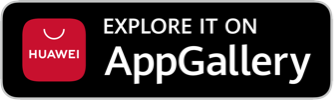
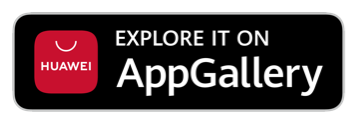
Update README v2

diff --git a/README.md b/README.md
@@ -16,8 +16,7 @@ alt="Get it on Google Play"
 height="80">](https://play.google.com/store/apps/details?id=com.kgurgul.cpuinfo)
 [<img src="info/huawei_badge.png"
 alt="Get it on HUAWEI AppGallery"
-style="padding-top: 12px; padding-right: 12px; padding-bottom: 12px; padding-left: 12px"
-height="55">](https://appgallery.cloud.huawei.com/ag/n/app/C102414279?channelId=Main+badge+&id=fb28f69db40840f8b79b541cc4a13775&s=1378847C6B5A46F97603F316DD1450C7D3F74C023A62827B43619C2D41F2341D&detailType=0&v=&callType=AGDLINK&installType=0000)
+height="80">](https://appgallery.cloud.huawei.com/ag/n/app/C102414279?channelId=Main+badge+&id=fb28f69db40840f8b79b541cc4a13775&s=1378847C6B5A46F97603F316DD1450C7D3F74C023A62827B43619C2D41F2341D&detailType=0&v=&callType=AGDLINK&installType=0000)
 
 Still TODO
 ==========
